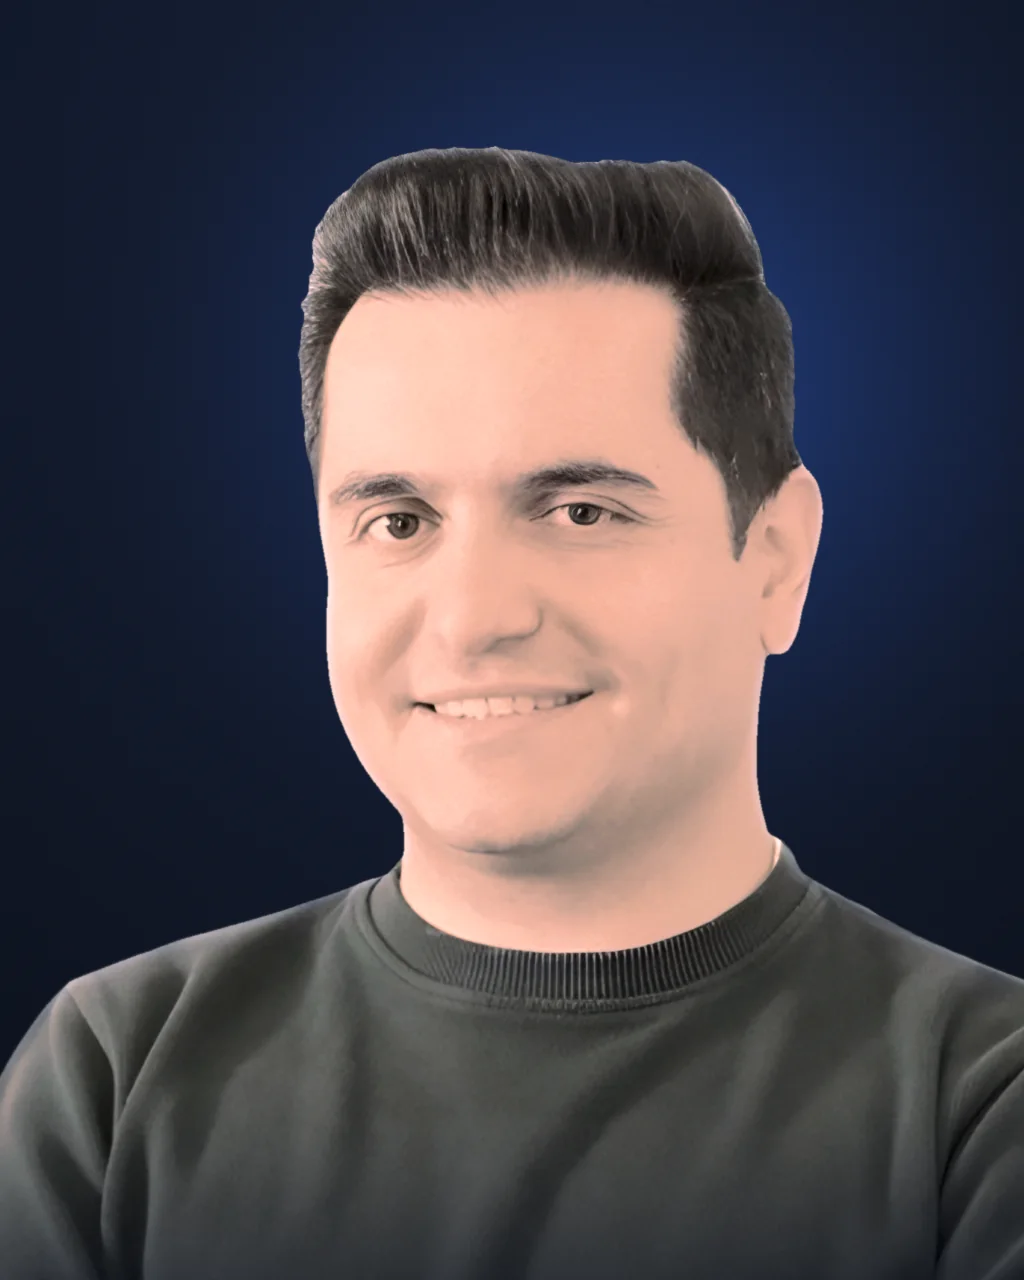
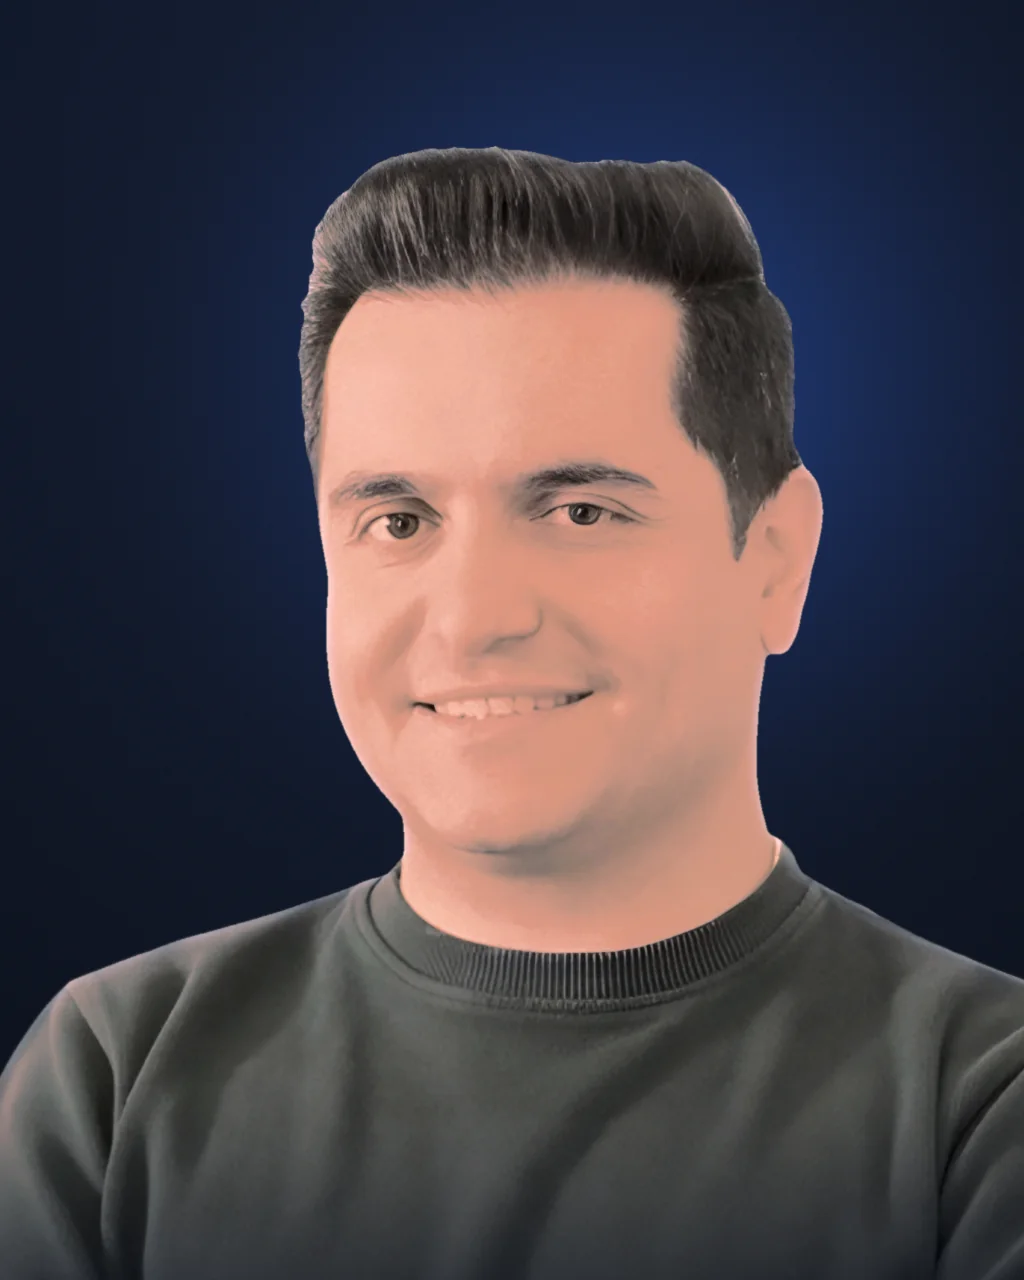
Fred Mosavari: natural warm skin tone

Changed region(s): [[0.3125, 0.2188, 0.8125, 0.75]]

diff --git a/scripts/team-headshots.py b/scripts/team-headshots.py
@@ -36,7 +36,7 @@ ADJ = {}
 FEATHER = {'navid': 7}
 TRIM = {'fred': .22}          # white-backdrop photos: cut a little tighter so no light halo remains
 ZOOM = {'justin': .84}
-SKINMATCH = {'hamid': dict(L=.55, ab=.9, target=(176., 150., 145.), cap=1.14, shadows=.6, range=70, sig=11, hair=1), 'justin': dict(L=.75, ab=.7, lift=1.18), 'djoomart': dict(L=.6, ab=.6, lift=1.08), 'fred': dict(L=.4, ab=.9, floor=.88, contrast=1.12, target=(160., 151., 150.), range=80, sig=14, gamma=1.12)}
+SKINMATCH = {'hamid': dict(L=.55, ab=.9, target=(176., 150., 145.), cap=1.14, shadows=.6, range=70, sig=11, hair=1), 'justin': dict(L=.75, ab=.7, lift=1.18), 'djoomart': dict(L=.6, ab=.6, lift=1.08), 'fred': dict(L=1., ab=1., floor=.8, contrast=1.1, target=(174., 153., 151.), range=90, sig=16, gamma=1.12)}
 def adjust(name, rgb):
     o = ADJ.get(name)
     if not o: return rgb

diff --git a/docs/seo-log.md b/docs/seo-log.md
@@ -123,3 +123,4 @@ Weekly improvement runs append here: what changed, why, and what to do next. New
 - New team member Fred Mosavari, Senior Estimator (order 35, after Hamid). Role text describes the job only; ask Hamid for Fred's experience/education to add. Portrait made from a 200 px photo (single Real-ESRGAN pass, gentle colour, fine texture) — soft; replace when a larger photo of Fred is available.
 - Hamid asked to bring back his previous portrait (black jacket, white shirt; from b9b6266). Fred's portrait rebuilt: midtones brought down (overexposed original), local contrast on eyes/brows/mouth, tighter matte to remove the white-backdrop halo, lighter skin texture.
 - Fred's portrait replaced with a larger photo he supplied (791x1024): one Real-ESRGAN pass blended with the photo, faded colour warmed to the team skin tone, contrast restored, white-backdrop halo trimmed, framed like the others.
+- Fred: skin brought from very bright/faded (L 204) to a natural warm tone close to the team (L ~183, warmer).
